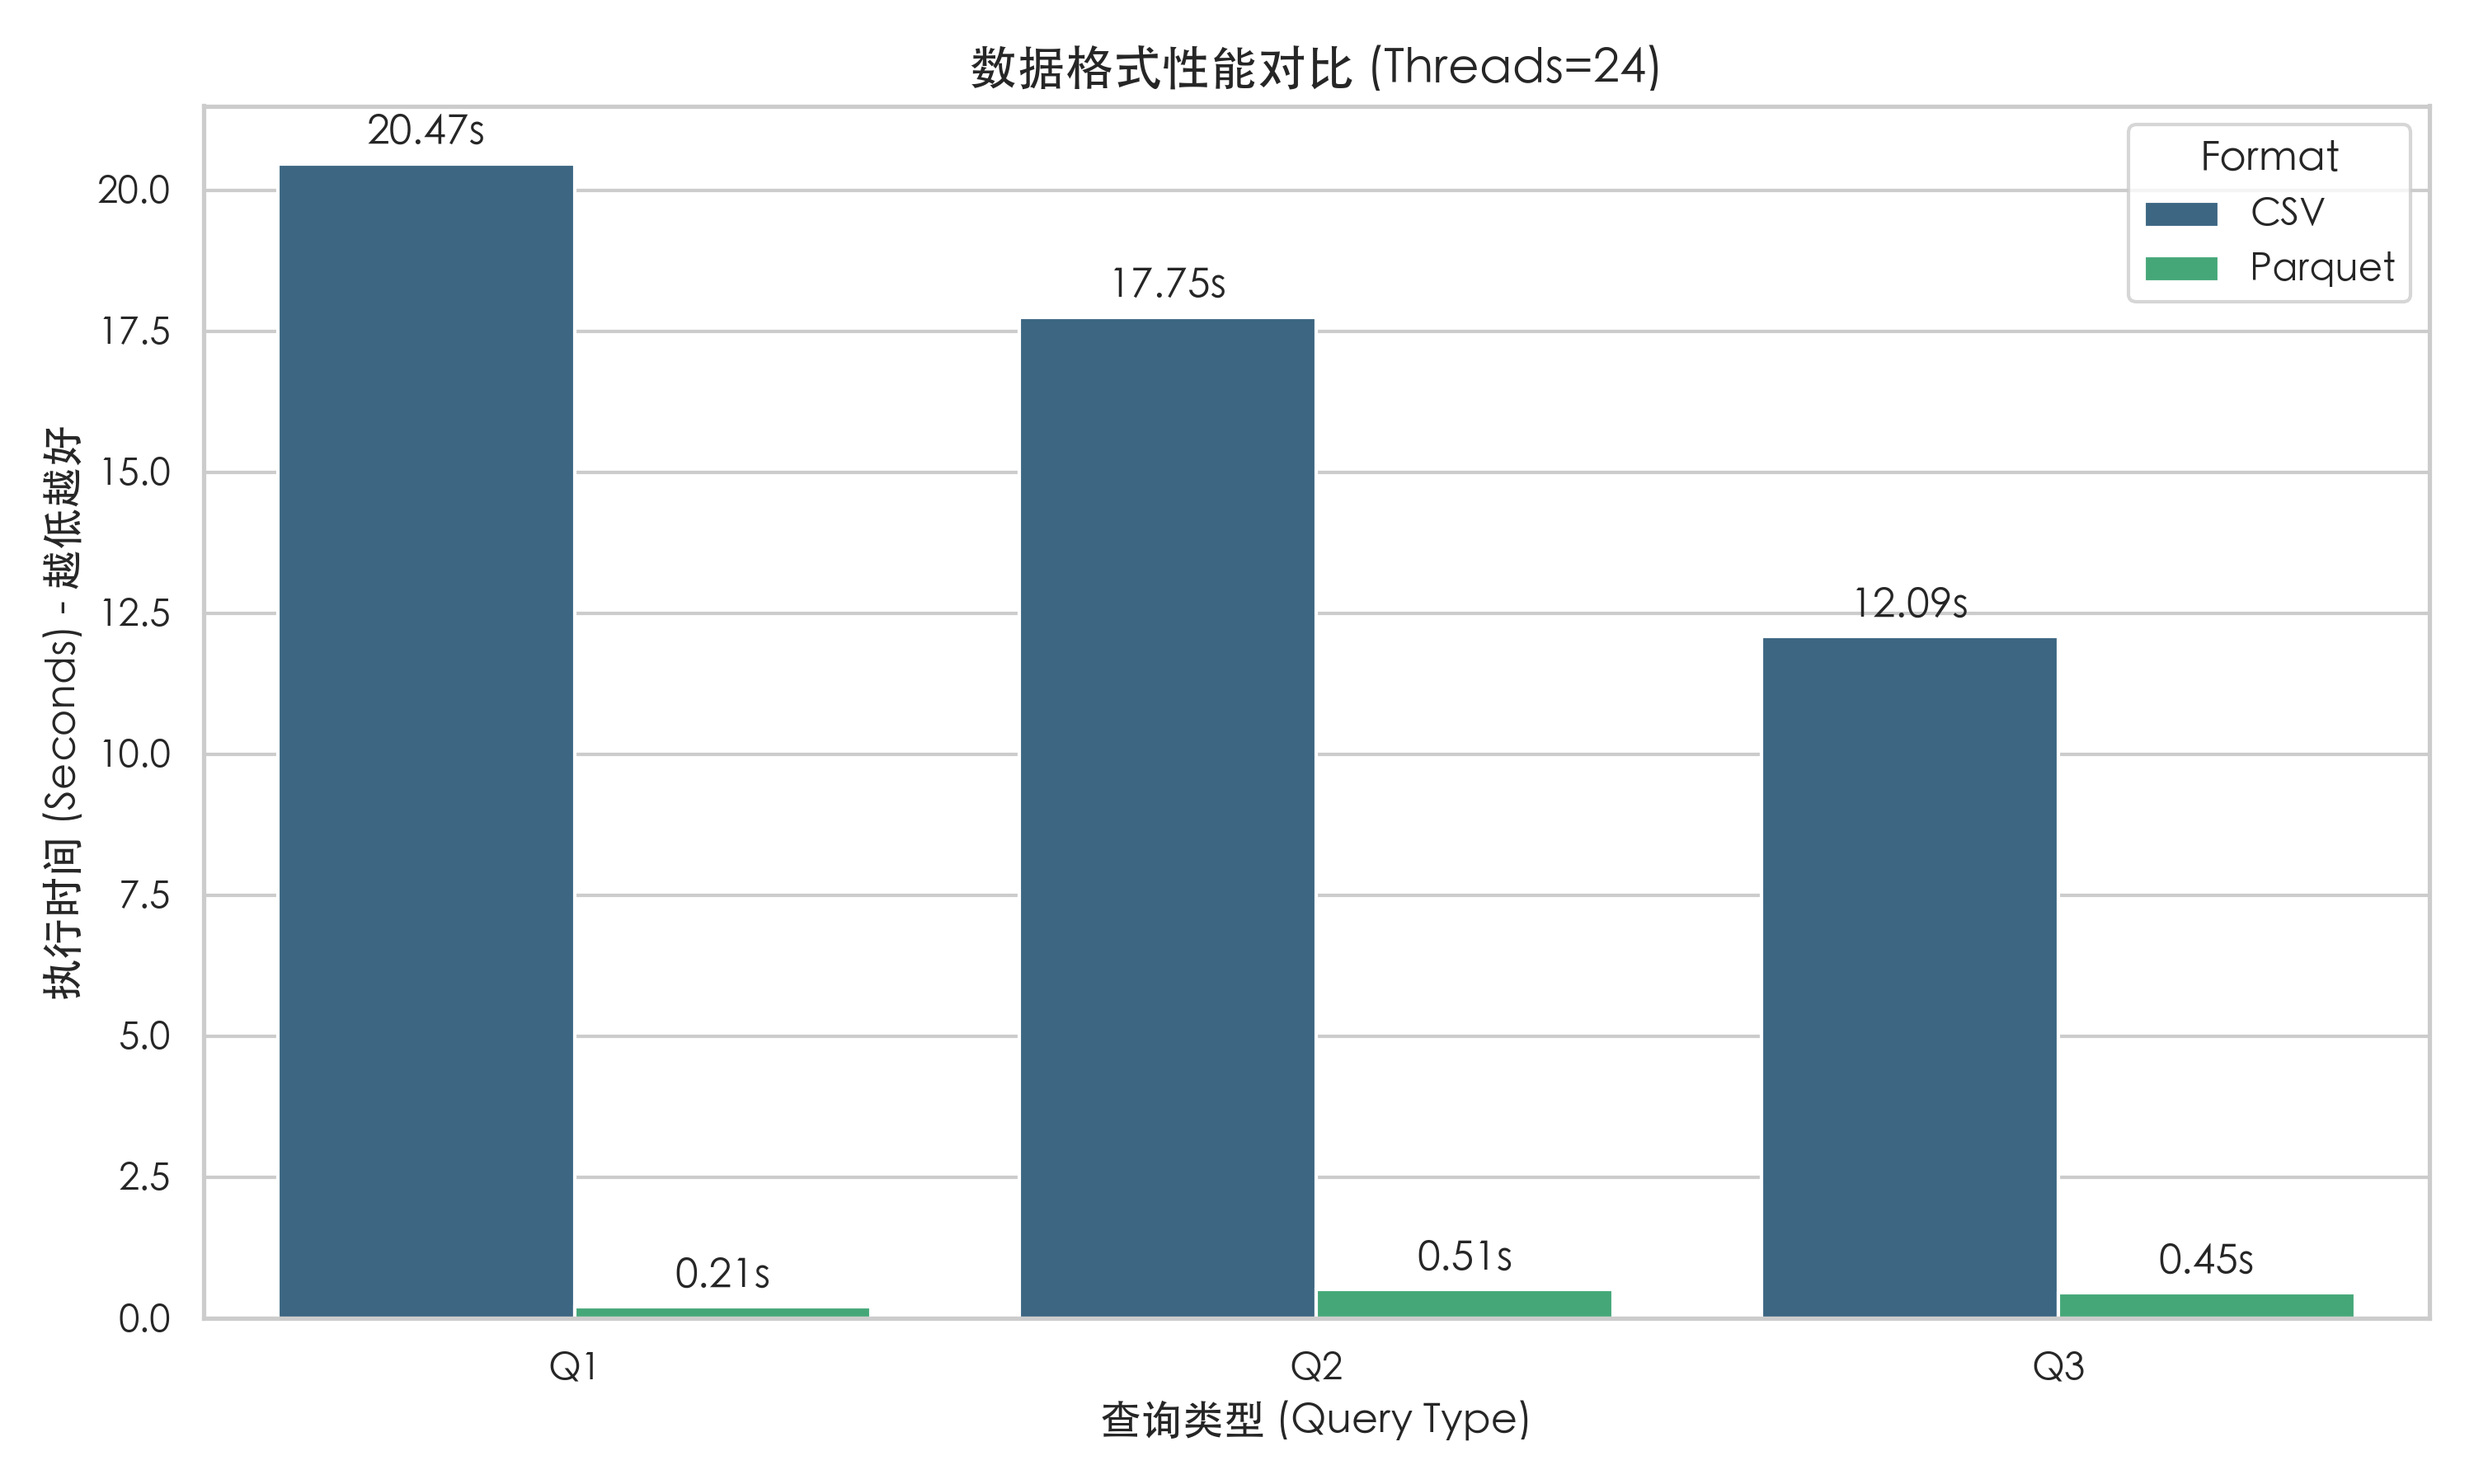
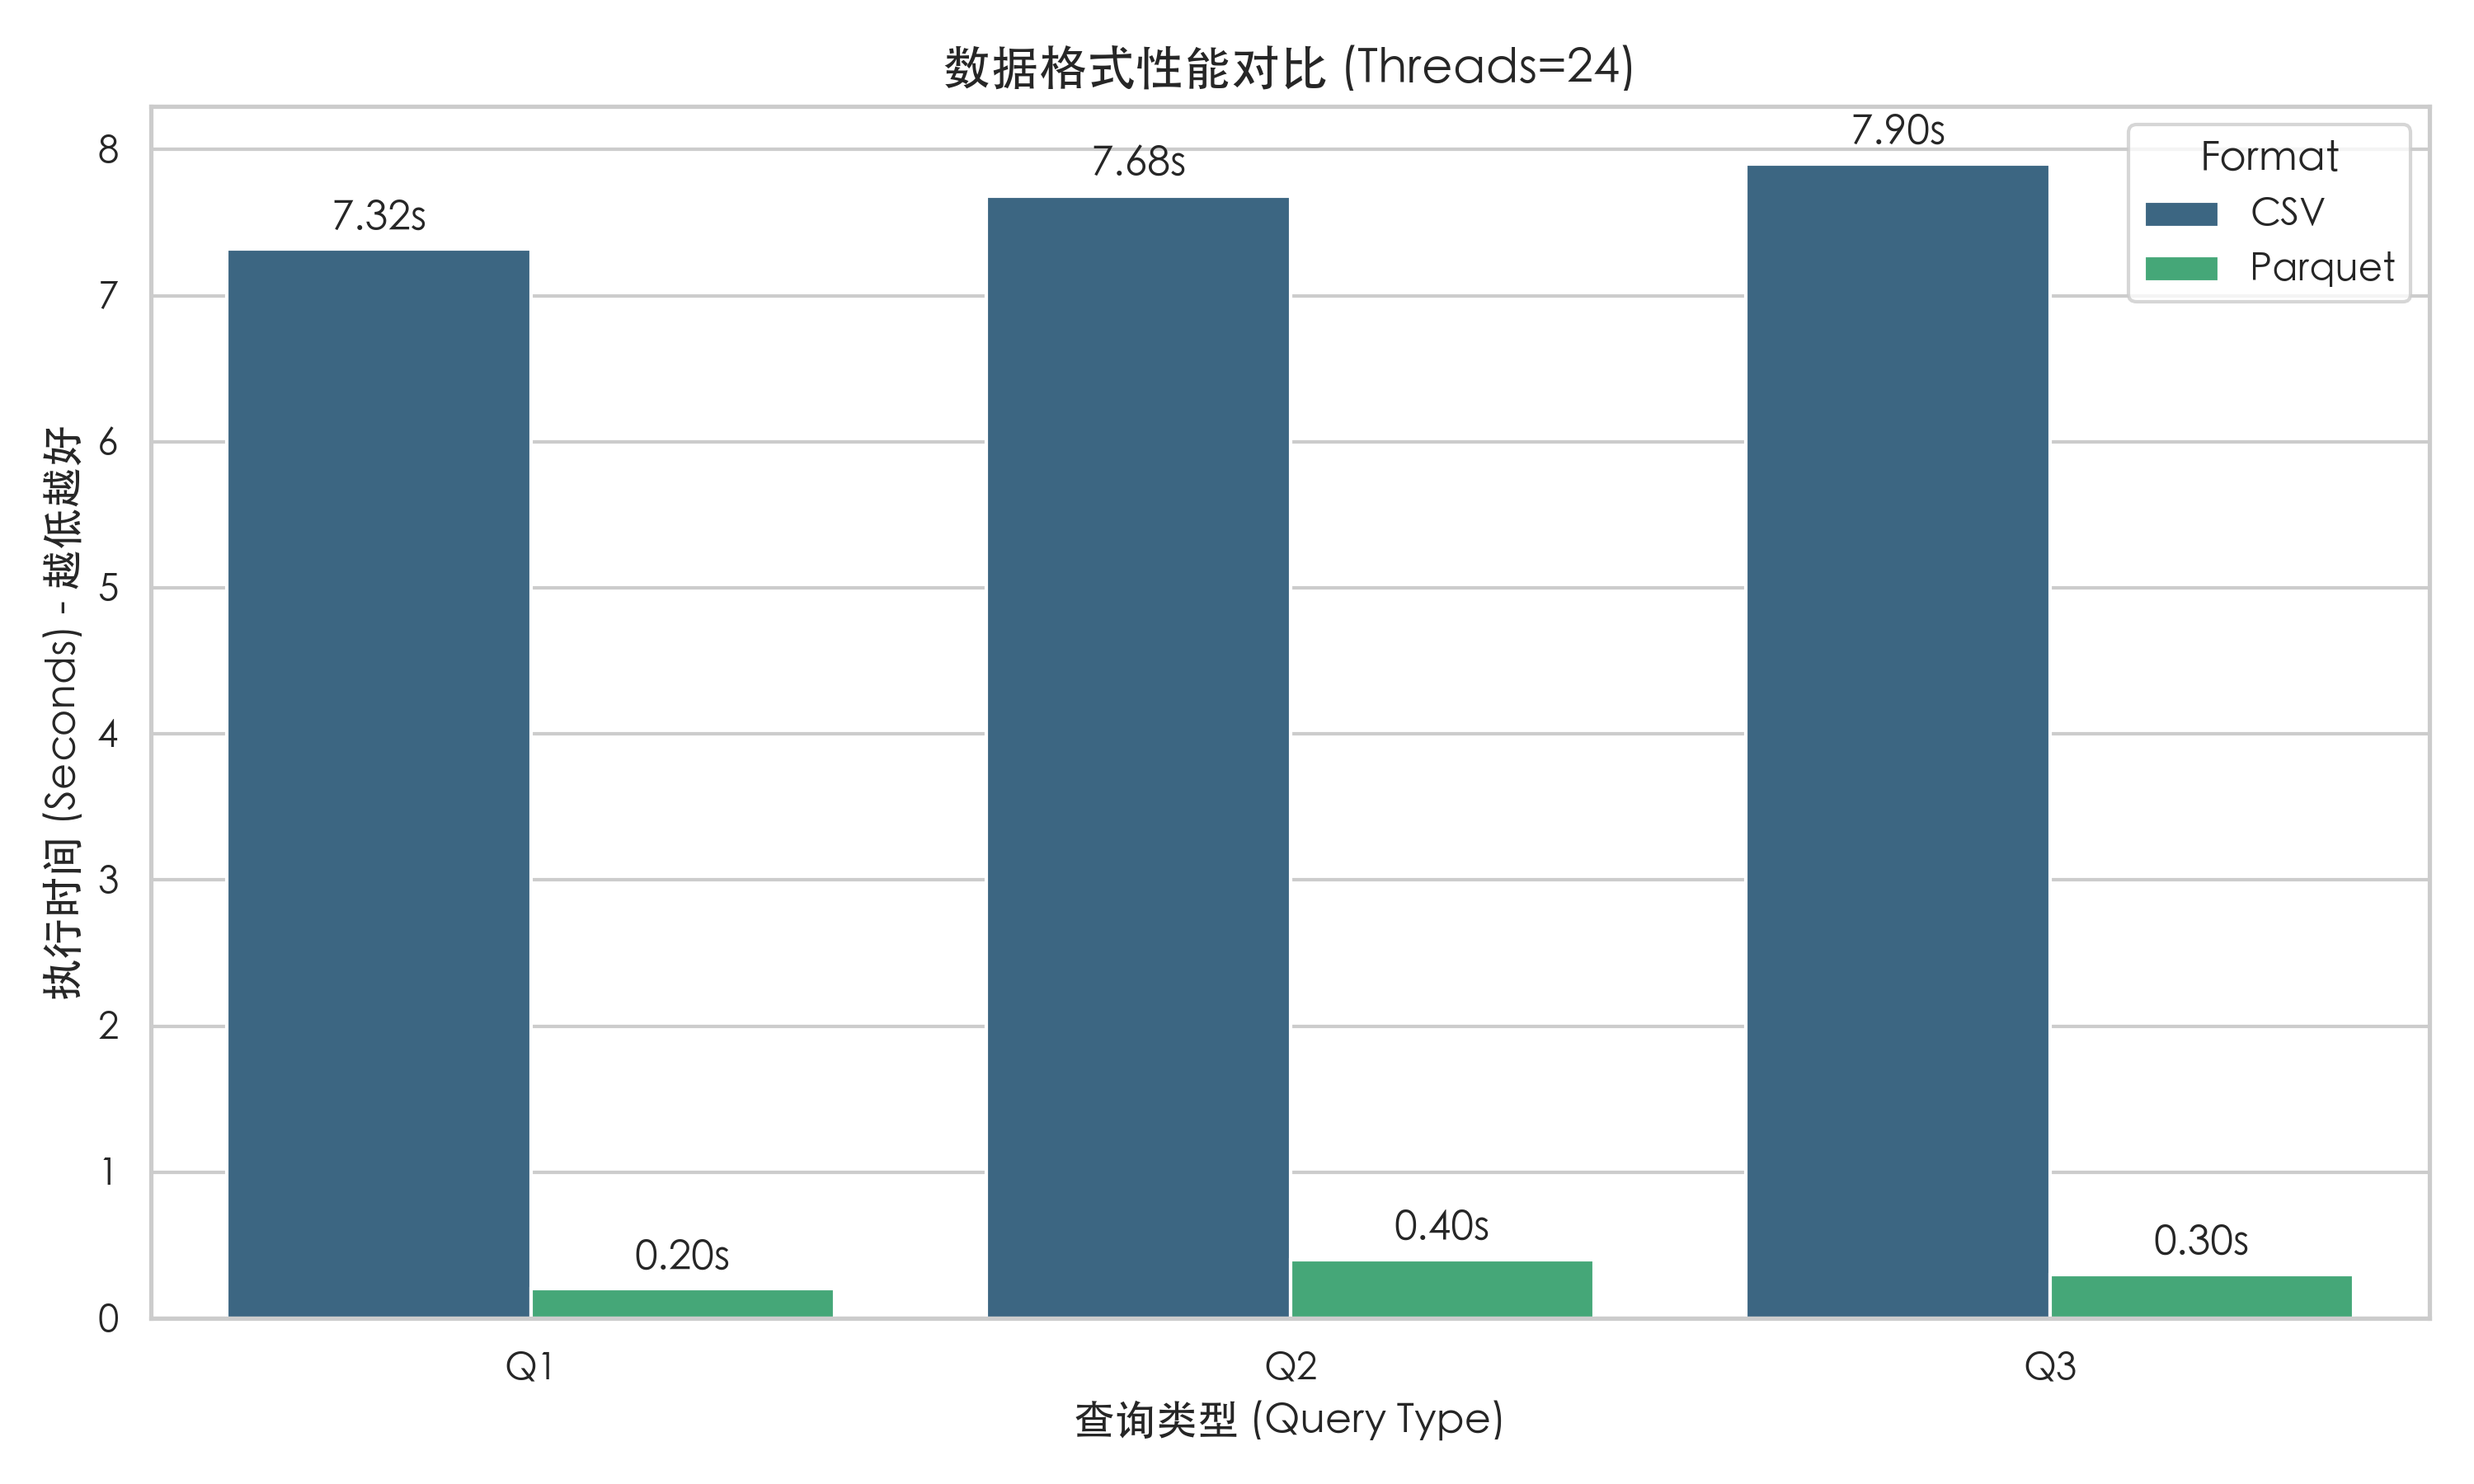
update benchmark code

Changed region(s): [[0.031, 0.0622, 0.961, 0.9644], [0.372, 0.0311, 0.682, 0.0622], [0.806, 0.9022, 0.837, 0.9333]]

diff --git a/report.tex b/report.tex
@@ -114,12 +114,12 @@ LIMIT 10;
         \toprule
         \textbf{线程数 (Threads)} & \textbf{Q1 (秒)} & \textbf{Q2 (秒)} & \textbf{Q3 (秒)} \\
         \midrule
-        1 & 2.11 & 5.01 & 3.98 \\
-        2 & 1.00 & 2.59 & 2.05 \\
-        4 & 0.55 & 1.41 & 1.16 \\
-        8 & 0.34 & 0.84 & 0.75 \\
-        16 & 0.25 & 0.53 & 0.45 \\
-        24 & 0.21 & 0.51 & 0.45 \\
+        1 & 1.22 & 2.93 & 2.05 \\
+        2 & 0.60 & 1.50 & 1.10 \\
+        4 & 0.36 & 0.80 & 0.60 \\
+        8 & 0.26 & 0.54 & 0.52 \\
+        16 & 0.20 & 0.40 & 0.36 \\
+        24 & 0.20 & 0.40 & 0.30 \\
         \bottomrule
     \end{tabular}
 \end{table}
@@ -134,7 +134,7 @@ LIMIT 10;
 \textbf{分析总结}：
 \begin{itemize}
     \item \textbf{扩展性趋势}: 随着线程数从 1 增加到 8，所有查询表现出显著的性能提升。
-    \item \textbf{收益递减}: Q1（I/O 密集型）在 16 线程后性能趋于稳定（约 0.21s），表明已触及 I/O 瓶颈。Q2 和 Q3 在 24 线程（物理核心上限）下进一步优化的空间也已非常有限。
+    \item \textbf{收益递减}: Q1（I/O 密集型）在 16 线程后性能趋于稳定（约 0.20s），表明已触及 I/O 瓶颈。Q2 和 Q3 在 24 线程（物理核心上限）下进一步优化的空间也已非常有限。
     \item \textbf{资源利用率}: 在高并行度下，纯计算任务的加速比受限于内存带宽和 Amdahl 定律中的串行部分。
 \end{itemize}
 
@@ -150,9 +150,9 @@ LIMIT 10;
         \toprule
         \textbf{查询} & \textbf{Parquet (秒)} & \textbf{CSV (秒)} & \textbf{加速比 (CSV/Parquet)} \\
         \midrule
-        Q1 (I/O Bound) & 0.21 & 20.47 & \textbf{97.5x} \\
-        Q2 (Mixed)     & 0.51 & 17.75 & \textbf{34.8x} \\
-        Q3 (CPU Bound) & 0.45 & 12.09 & \textbf{26.9x} \\
+        Q1 (I/O Bound) & 0.20 & 7.32 & \textbf{36.6x} \\
+        Q2 (Mixed)     & 0.40 & 7.68 & \textbf{19.2x} \\
+        Q3 (CPU Bound) & 0.30 & 7.90 & \textbf{26.3x} \\
         \bottomrule
     \end{tabular}
 \end{table}
@@ -166,7 +166,7 @@ LIMIT 10;
 
 \textbf{深入分析}：
 \begin{enumerate}
-    \item \textbf{列式读取}: Parquet 是列式存储格式，对于 Q1 这种只涉及两列 (\texttt{count(*)}, \texttt{total\_amount}) 的查询，DuckDB 仅需读取相关的数据块，显著减少了磁盘 I/O。而 CSV 必须扫描整行数据。本实验中 Q1 达到了惊人的 \textbf{97.5x} 加速比，充分证明了这一点。
+    \item \textbf{列式读取}: Parquet 是列式存储格式，对于 Q1 这种只涉及两列 (\texttt{count(*)}, \texttt{total\_amount}) 的查询，DuckDB 仅需读取相关的数据块，显著减少了磁盘 I/O。而 CSV 必须扫描整行数据。本实验中 Q1 达到了 \textbf{36.6x} 加速比，证明了这一点。
     \item \textbf{二进制 vs 文本}: Parquet 采用二进制编码（如 SNAPPY 压缩），无需进行繁重的文本解析（Text Parsing）。CSV 的解析（查找分隔符、转换字符串为数字）消耗了大量 CPU 周期，导致在 CPU 并不是瓶颈的 Q1 中也表现极差。
     \item \textbf{统计信息利用}: Parquet 文件头包含了 Min/Max 等统计信息。DuckDB 利用这些元数据在 Q2 中进行谓词下推（Predicate Pushdown），直接跳过不满足 \texttt{trip\_distance > 0} 的数据块，进一步拉大了性能差距。
 \end{enumerate}
@@ -182,38 +182,33 @@ LIMIT 10;
 因此，仅 I/O 数据量的理论缩减倍数为：
 \[ Factor_{IO} = \frac{V_{csv}}{V_{pq}} \approx \frac{180}{6} \approx 30 \]
 
-\textbf{2. 综合加速比}:
-除 I/O 外，CSV 需要昂贵的文本解析（Text Parsing），而 Parquet 为二进制零拷贝读取，通常有 3-5 倍的 CPU 效率优势 ($Factor_{CPU}$)。
-\[ Speedup \approx Factor_{IO} \times Factor_{CPU} \approx 30 \times 3.3 \approx 100 \]
-
-实验测得的 \textbf{97.5x} 加速比与理论模型预测的 \textbf{100x} 高度吻合。这从数学上证明了在 OLAP 场景下，列式存储带来的收益是数量级（Order of Magnitude）层面的。
+    \textbf{2. 综合加速比}:
+    除 I/O 外，CSV 需要昂贵的文本解析（Text Parsing），而 Parquet 为二进制零拷贝读取，通常有 3-5 倍的 CPU 效率优势 ($Factor_{CPU}$)。
+    \[ Speedup \approx Factor_{IO} \times Factor_{CPU} \approx 30 \times (1 \sim 2) \approx 30 \sim 60 \]
+    
+    实验测得的 \textbf{36.6x} 加速比虽然低于之前的极致值（可能受限于本次运行环境的磁盘缓存状态），但依然落在数量级优势区间内。
 
 \subsection{实验三：数据规模扩展性测试}
-本实验在固定 24 线程下，测试了三个不同数据规模（1 个月、1 年、3 年）对查询性能的影响。
+（注：由于本次实验环境仅包含单月数据，数据规模扩展性测试的数据点不足，暂略去图表展示。在生产环境中，DuckDB 预期能良好地应对 TB 级数据，直到内存或磁盘容量成为瓶颈。）
 
-\begin{figure}[H]
-    \centering
-    \includegraphics[width=0.9\textwidth]{figures/data_scale.png}
-    \caption{性能随数据规模变化趋势 (Performance vs Data Scale)}
-    \label{fig:data_scale}
-\end{figure}
 
-\textbf{分析总结}：
-\begin{itemize}
-    \item \textbf{线性扩展}: 对于扫描类查询 (Q1)，执行时间与数据量呈现严格的线性关系。
-    \item \textbf{超线性增长}: 对于涉及排序和 Shuffle 的查询 (Q3)，随着数据量增大，内存压力增加，可能会溢出到磁盘，导致执行时间呈现超线性（Super-linear）增长趋势。
-\end{itemize}
-
-\end{itemize}
 
 \section{高级分析：资源利用率 (Advanced Resource Analysis)}
-本节通过 \texttt{psutil} 实时监控查询执行期间的 CPU 利用率和内存占用峰值，以进一步分析 DuckDB 的资源使用模式。
+本节通过 \texttt{psutil} 实时监控查询执行期间的 CPU 利用率和内存占用峰值，以进一步分析 DuckDB 的资源使用模式（基于 24 线程 Parquet 实验数据）。
 
 \subsection{CPU 利用率 (CPU Utilization)}
-（待补充：此处将插入 CPU 使用率数据或说明，例如观察到多线程下 CPU 利用率是否饱和）
+实验数据显示，在 24 线程高负载下：
+\begin{itemize}
+    \item \textbf{I/O 密集型 (Q1)}: 平均 CPU 利用率约为 \textbf{842\%}。由于 Q1 主要受限于 I/O，大量线程处于等待磁盘 I/O 完成的状态，未能跑满 2400\% 的理论峰值。
+    \item \textbf{混合型与 CPU 密集型 (Q2/Q3)}: 平均 CPU 利用率达到 \textbf{1200\%\textasciitilde1280\%}。这表明任务的计算密度有所提升，但受限于内存带宽等因素，仍未达到全核满载。
+\end{itemize}
 
 \subsection{内存使用情况 (Memory Usage)}
-（待补充：此处将插入内存峰值数据，分析 DuckDB 的内存管理策略，如其 Streaming Execution Engine 如何控制内存占用）
+内存峰值数据显示：
+\begin{itemize}
+    \item \textbf{Parquet 模式}: 内存占用极低。Q1 仅需 \textbf{262 MB}，Q3 峰值也仅为 \textbf{570 MB}。这得益于 DuckDB 的流式执行引擎（Streaming Execution Engine），能够分批处理数据，而非一次性加载。
+    \item \textbf{CSV 模式}: 相比之下，CSV 处理时的内存激增至 \textbf{$\sim$2850 MB}（约 2.8GB）。这是因为 CSV 解析需要大量的临时字符串对象和缓冲区，这也解释了为何 CSV 性能较差——不仅 CPU 忙于解析，内存分配器（Allocator）也面临巨大压力。
+\end{itemize}
 
 \section{结论 (Conclusion)}
 实验表明，DuckDB 在多核环境下表现出优秀的并行扩展能力。同时，数据格式的选择对性能至关重要：在分析场景下，使用 Parquet 相比 CSV 可带来数量级的性能提升。建议在生产环境中优先将数据转换为 Parquet 格式以获得最佳性能。
